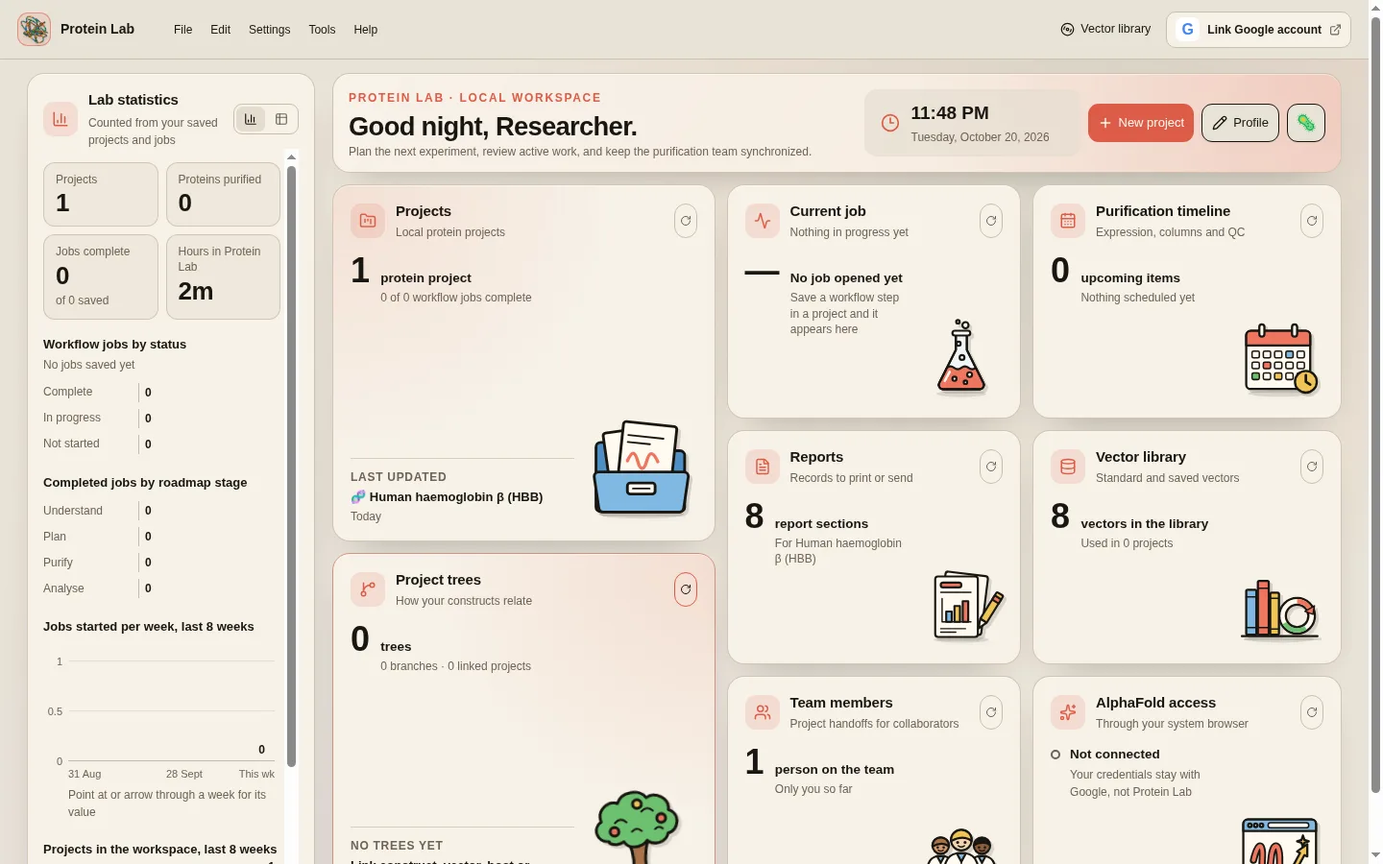
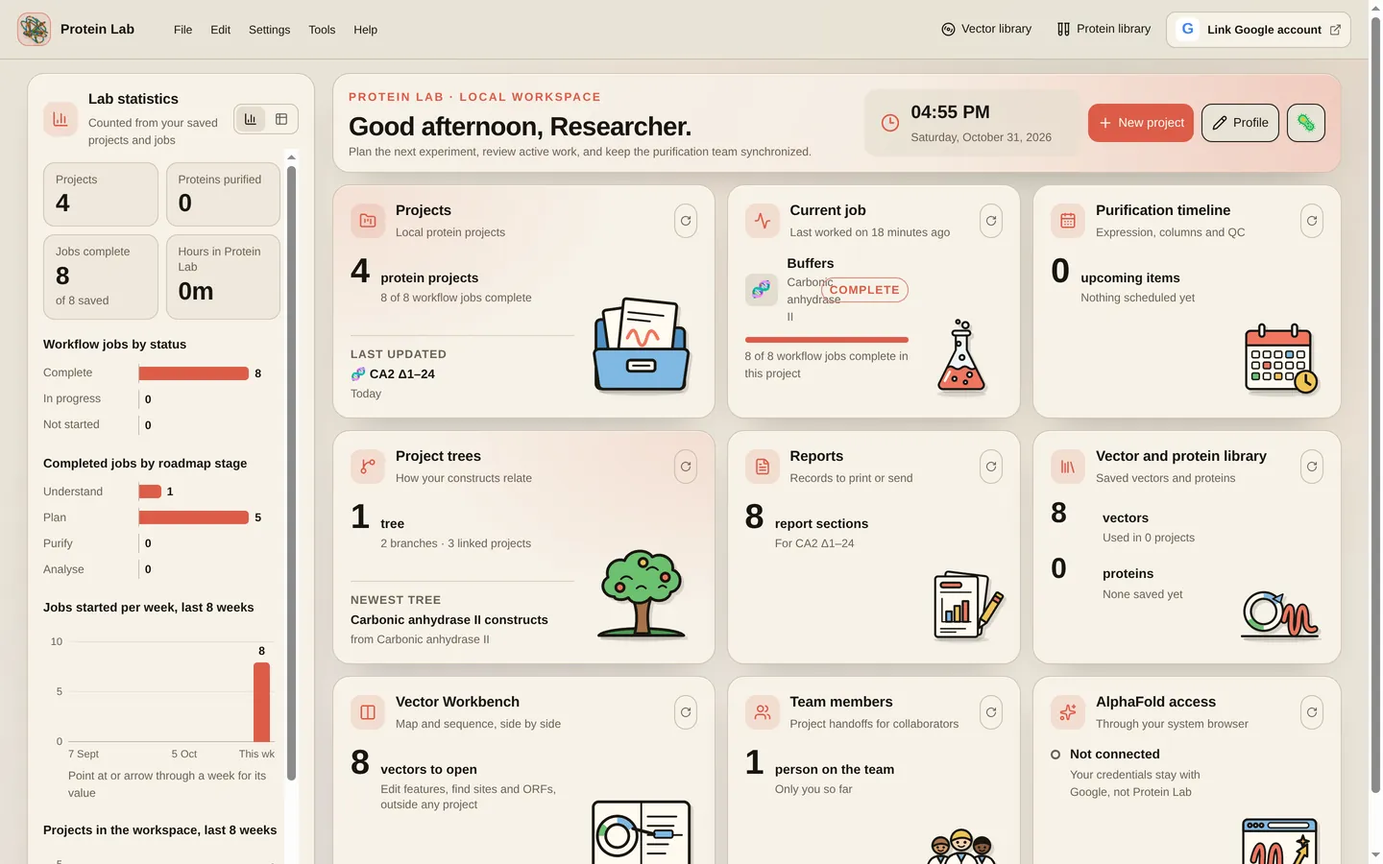
docs(manual): cover the HOM-269 release and retake every screenshot
- New: What's new; Move between jobs (Previous/Next job tabs, Skip);
  organism search; most abundant residue; Conservation with ConSurf;
  Export an AlphaFold Server job; the larger Structure Viewer with
  surface opacity, chain interface and colour by conservation; Vector
  Workbench; lysis method animations; the Compile workflow timeline.
- Removed every reference to the recommended-next card and banner, and
  corrected the workflow sections (bench jobs open from the roadmap).
- All 24 figures retaken from this branch (merged main plus the two
  sweep fixes) against a scratch
  engine, in Graphic novel and Monochrome dark (48 WebP, 2.8 MB).

diff --git a/protein-labs-web/docs/user-manual.md b/protein-labs-web/docs/user-manual.md
@@ -10,12 +10,31 @@ Authoring notes (not shown in the app):
 - A figure is an image on its own line, optionally followed by an italic caption line:
   ![Alt text](manual/name.webp)
   *Caption.*
-- Images live in desktop/public/manual/. lib/manual.test.ts fails if a figure is missing.
+- Images live in desktop/public/manual/. Every figure has a light screenshot (name.webp,
+  Graphic novel appearance) and a dark one (name-dark.webp, Monochrome dark); the app
+  shows the one that matches the appearance. Take both from the same build and window
+  size (1440 × 900 for full-window figures). lib/manual.test.ts fails if either is missing.
+- "[text](#anchor)" links jump inside the manual. The anchor is the slug of a "##" or "###"
+  title; lib/manual.test.ts fails if it does not exist.
 - Section anchors are slugs of the "##" title. Help > Keyboard & mouse controls opens
   the "Keyboard and mouse" section, so keep that title.
 -->
 
 Protein Lab is an offline workspace for planning protein expression, recording purification work, analysing chromatograms and gels, and preparing a purification report. The local scientific engine runs on your computer; projects remain in the project directory you choose.
+
+## What's new
+
+This release adds the following. Each item links to its place in the manual.
+
+- **Previous job and Next job tabs** at the bottom of every job replace the recommended-next card and banner. See [Move between jobs](#move-between-jobs).
+- **Organism search** in Protein sequence looks up UniProt and NCBI Taxonomy as you type. See [Protein sequence](#protein-sequence).
+- **Most abundant residue** is highlighted in the amino-acid composition table. See [Protein properties](#protein-properties).
+- **ConSurf conservation** in Sequence research grades every residue from 1 (variable) to 9 (conserved). See [Conservation with ConSurf](#conservation-with-consurf).
+- **AlphaFold Server JSON export** in Choose reference match, with a preview and checks before you upload. See [Export an AlphaFold Server job](#export-an-alphafold-server-job).
+- **A larger Structure Viewer** with a collapsible side panel, **surface opacity**, **chain interface highlighting** and **colour by conservation**. See [Structure Viewer](#structure-viewer).
+- **Vector Workbench** on the dashboard: a linked plasmid map and sequence for any vector, outside a project. See [Vector Workbench](#vector-workbench).
+- **Lysis method animations** show how each method breaks cells. See [Cell lysis](#cell-lysis).
+- **Compile workflow** is now a timeline of bench steps with a compatibility check on each hand-off. See [Compile workflow](#compile-workflow).
 
 ## Getting started
 
@@ -29,7 +48,7 @@ Protein Lab is an offline workspace for planning protein expression, recording p
 ![The Protein Lab start screen with the Start button and the engine status underneath](manual/start-screen.webp)
 *The start screen. "Scientific engine ready" means the local engine is running.*
 
-The dashboard is the way back to your local workspace. Use its cards to open a saved project, your project trees, the vector and protein library, or reports. Select the Protein Lab mark at the upper left from another workspace to return here.
+The dashboard is the way back to your local workspace. Use its cards to open a saved project, your project trees, the vector and protein library, the Vector Workbench, or reports. Select the Protein Lab mark at the upper left from another workspace to return here.
 
 ![The dashboard with lab statistics, projects, project trees and reports cards](manual/dashboard.webp)
 *The dashboard after clicking Start.*
@@ -97,36 +116,48 @@ Each project opens on its dashboard. Use **Resume workflow** to move from the pr
 
 ![The project dashboard with Resume workflow, Purification roadmap and Report](manual/project-dashboard.webp)
 
-![The project workflow listing the planning and purification design jobs](manual/workflow.webp)
-*Workflow cards show their status and the next recommended job.*
+![The project workflow with its four sections of numbered job cards](manual/workflow.webp)
+*Job cards are numbered in the recommended order and show their status.*
 
 To plan a project:
 
 1. Click **Resume workflow** on the project dashboard, or choose **Tools** → **Project workflow**.
-2. Read the **RECOMMENDED NEXT** banner, then select **Start** or **Continue**. You can also select any job card when your experiment needs a different path.
-3. Save the choices in each planning job before moving on; the roadmap uses saved planning choices to populate its steps.
-4. When the banner says **WORKFLOW READY**, select **Open roadmap**. For a non-planning optional job, use **Skip** only when it is not needed for this project.
+2. Select the first job card that is not done. Complete the jobs in order, or open any card when your experiment needs a different path.
+3. Save the choices in each planning job before you move on. The roadmap uses the saved planning choices to fill in its steps.
+4. Inside a job, use the **Next job** tab at the bottom of the window to continue. See [Move between jobs](#move-between-jobs).
+5. When planning is done, the **Purify your protein** card shows **READY**. Click **Open purification roadmap**.
 
 > **Tip:** A workflow card can be opened again to check or revise its saved choices before you start the corresponding bench step.
 
-The workflow has four sections. The table lists the jobs in their recommended order.
+The workflow page has two sections of numbered jobs, followed by the **Purify your protein** card. The table lists the jobs in their recommended order. **Previous job** and **Next job** follow the same order.
 
 | Section | Jobs |
 | --- | --- |
 | **Understanding your protein** | Protein sequence, Protein properties, Sequence research, Choose reference match, Structure Viewer, Protein readiness check |
 | **Plan your purification** | Affinity capture, Subtractive cleanup, SEC polishing, Choose expression system, Expression vector design, Cell lysis, Compile workflow |
-| **Purify your protein** | Transformation and Expression |
-| **Analyze your purification** | Chromatogram Studio, Gel densitometry |
+| **Purify your protein** (from the roadmap) | Transformation and Expression, Chromatogram Studio, Gel densitometry |
+
+The bench jobs in **Purify your protein** open from the steps of the [purification roadmap](#purification-roadmap), or with **Next job** after **Compile workflow**.
 
 You plan the purification from the protein outwards. First choose the capture, cleanup and polishing steps. Then choose the host, the vector and the lysis that feed them.
 
 ### Work in a job
 
-Each job has the same header. The header shows the engine status (**Local engine connected**, **Local engine unavailable** or **Checking engine**) and the **Roadmap** and **Report** buttons. Use the tab on the left to go back to project planning or to the roadmap.
+Each job has the same header. The header shows the engine status (**Local engine connected**, **Local engine unavailable** or **Checking engine**) and the **Roadmap** and **Report** buttons. Use the tab at the upper left (**Project planning** or **Purification roadmap**) to go back to where you came from.
 
-After you save a job, a **Saved** tab appears. It shows the **RECOMMENDED NEXT PLANNING JOB**. If you opened the job from the roadmap, it shows **CONTINUE THE PURIFICATION**. Select the tab to continue.
+### Move between jobs
 
-To skip a job, select **Skip** on the **RECOMMENDED NEXT** banner. The job is marked as skipped and counts as done. **Compile workflow** records that you continued without it.
+The bottom of every job has two tabs: **Previous job** at the lower left and **Next job** at the lower right. They follow the order in the table above.
+
+![The bottom of a job with the Skip button, the Next job tab and its tooltip naming the next job](manual/job-nav-tabs.webp)
+*Hold the pointer on a tab, or focus it, to see the name of the job it opens.*
+
+- Click **Next job** or **Previous job** to open the neighbouring job. The first job has no **Previous job** tab and the last job has no **Next job** tab.
+- Hold the pointer on a tab, or move the keyboard focus to it, to see which job it opens.
+- After you save, **Saved** shows next to the tabs for a few seconds.
+- To leave out a job that this project does not need, click **Skip**. Protein Lab saves the job as skipped, counts it as done, and opens the next job. **Compile workflow** records that you continued without it.
+
+> **Note:** **Skip** is only offered for unfinished jobs in **Understanding your protein** and **Plan your purification**. **Protein sequence** cannot be skipped.
 
 ## Protein sequence and properties
 
@@ -136,6 +167,18 @@ To skip a job, select **Skip** on the **RECOMMENDED NEXT** banner. The job is ma
 2. Edit the **Construct name** and the **Amino acid sequence**. Spaces and line breaks are ignored.
 3. Optionally, fill in **Organism**, **Gene**, **Description** and **Notes** under **Construct metadata**. Later jobs use these values.
 4. Click **Save sequence**. Protein Lab saves the sequence and calculates the protein properties again.
+
+To choose the organism:
+
+1. Click **Organism** and type a name, a strain or a taxon ID. After a short pause, Protein Lab searches UniProt and NCBI Taxonomy.
+2. Read the suggestions. Each one shows the scientific name, its rank or common name, and its taxon ID.
+3. Click a suggestion, or press <kbd>↓</kbd> and <kbd>↑</kbd> to move through the list and <kbd>Enter</kbd> to choose. Press <kbd>Esc</kbd> to close the list.
+4. Check the line under the field. **Linked to NCBI taxon** and a number means that the organism is linked to a taxon. **Free text · not linked to a taxon** means that the typed name is kept as text only.
+
+![The Organism field with Escherichia coli typed and a list of matching taxa with their taxon IDs](manual/organism-search.webp)
+*Suggestions come from UniProt and NCBI Taxonomy.*
+
+> **Note:** Without an internet connection, the list shows **Offline list** and offers common expression and model organisms only. You can always keep a name as free text.
 
 ### Protein properties
 
@@ -153,8 +196,13 @@ The job has these panels:
 - **Secondary-structure propensity**: the share of residues in the helix, turn and sheet sets. This is not a structure prediction.
 - **Sequence and charge summary**: the N-terminal and C-terminal residues with their positions, the net charge at pH 7, and the counts of acidic and basic residues.
 - **Oligomeric state**: the assembly that the protein forms in solution. See below.
-- **Amino-acid composition**: the count and percentage of each residue. The bars are coloured by side-chain class.
+- **Amino-acid composition**: the count and percentage of each residue. The bars are coloured by side-chain class. The most abundant residue is highlighted.
 - **Calculation assumptions**: the assumptions that the engine used.
+
+In the **Amino-acid composition** table, the row of the most abundant residue is tinted and marked **Most abundant**. If two or more residues share the highest count, each of them is marked.
+
+![The amino-acid composition table with the leucine row highlighted as the most abundant residue](manual/most-abundant.webp)
+*Leucine is the most abundant residue in this construct.*
 
 ### Residue details
 
@@ -214,6 +262,31 @@ To examine the alignments:
 - **UniProt matches and PTMs** lists each UniProt match with its review status, identity, coverage, and the number of PTM, transmembrane, disorder and cofactor features. The first match is marked **Best match**.
 - **PDB structures and conditions** lists each PDB entry with its method, resolution, identity, similarity and coverage. It also shows the crystallization and purification conditions when the deposition reports them.
 
+### Conservation with ConSurf
+
+ConSurf grades every residue from **1** (highly variable) to **9** (highly conserved) by comparing your protein with its homologues. Conserved residues are often in the active site, a binding site or the folded core. Avoid them when you choose tag positions, truncations and mutations.
+
+To get the grades:
+
+1. In the **ConSurf conservation** card, click **Find ConSurf grades**. Protein Lab looks for a pre-calculated ConSurf-DB analysis of a PDB chain that matches your sequence, and saves it.
+2. If ConSurf-DB has no entry, click **Prepare ConSurf server job**. ConSurf has no submission API, so the run happens on their web server. Protein Lab writes the input files and lists the steps. Click **Open the ConSurf server** and follow the steps.
+3. When the ConSurf run finishes, download its grades file and, optionally, its alignment. Type the path of each file in **ConSurf grades file** and **Alignment file (optional)**, then click **Import grades**.
+
+![The Evolutionary conservation panel with the grade summary, the grade distribution, the residue strip and the colour legend](manual/consurf.webp)
+*Deep magenta residues are highly conserved and turquoise residues are variable.*
+
+To read the **Evolutionary conservation** panel:
+
+- The summary shows **Residues graded**, **Mean grade**, **Grade 9 sites**, **Insufficient data**, the **PDB chain** and the number of sequences in the **Alignment**.
+- The bar shows how many residues have each grade. Under it, Protein Lab lists the conserved stretches (grade 8 and higher).
+- The strip shows each residue coloured by its grade. Hatched residues have **insufficient data**: too few homologues cover that position for a reliable grade.
+- Click a residue in the strip to see its **Score**, **Confidence interval**, **Alignment support**, **Burial**, the **ConSurf call** and the residues seen at that position. Press <kbd>←</kbd> or <kbd>→</kbd> to move one residue, <kbd>↑</kbd> or <kbd>↓</kbd> to move one row, and <kbd>Esc</kbd> to clear the selection.
+- Click **Alignment** to show the homologue alignment, **Open in ConSurf-DB** to read the entry on the ConSurf website, or **Delete run** to remove the run. If there is more than one run, choose it in **Run**.
+
+To replace the grades of a run, open **Import another grades file for this run** and import the new file.
+
+> **Tip:** The [Structure Viewer](#colour-by-conservation) can paint the same grades on the 3D model.
+
 ## Choosing a reference match
 
 The **Choose reference match** job selects one UniProt record. This record is the source of the cofactor, PTM, location, topology and disorder evidence for the project.
@@ -225,9 +298,36 @@ The **Choose reference match** job selects one UniProt record. This record is th
 
 > **Warning:** A close homolog is supporting evidence. It does not prove that each annotation applies to your construct. Confirm active-site residues, modified positions and construct boundaries before you use the annotations.
 
+### Export an AlphaFold Server job
+
+[AlphaFold Server](https://alphafoldserver.com) predicts the structure of a protein together with its partners, ligands and ions. Protein Lab can write the job file for you from the project's sequence, oligomeric state, cofactors and reference modifications.
+
+1. Open **Choose reference match** and click **Export AlphaFold Server JSON**.
+2. Read the token meter. AlphaFold Server accepts up to 5,000 tokens per job: one per residue or base, and one per atom of a ligand, ion or modified residue.
+3. Check **Chains**. A homo-oligomer is exported as copies of the chain. Modified residues and glycans from the reference match are listed on the chain.
+4. Check **Ligands and ions**. Click the bin button to leave a cofactor out of this job. It moves to **Removed from this job**; click its name there to add it back.
+5. Under **Partner chains**, click **Add a partner chain** to model another protein with yours. Enter its **Name**, **Sequence** and **Copies**.
+6. Read **What changed on the way out**. Each note is marked **Left out**, **Changed** or **Blocks upload**.
+7. Click **Download JSON** to save the file, or **Copy JSON** to copy it. Open **Raw JSON** to read the file first.
+8. On AlphaFold Server, use **Load JSON** to load the file, then submit the job.
+
+![The Export an AlphaFold Server job dialog with the token meter, chains, ligands, partner chains and the change notes](manual/af-server-export.webp)
+*The export of a single carbonic anhydrase II chain.*
+
+> **Note:** Removing a ligand or adding a partner chain changes only this export. Nothing is written back to the project.
+
+> **Warning:** If the meter shows **Over the per-job limit**, AlphaFold Server will refuse the job. Remove ligands, copies or partner chains until it fits.
+
+When the prediction is ready, import its result in the Structure Viewer. See [Get an AlphaFold model](#get-an-alphafold-model).
+
 ## Structure Viewer
 
-The **Structure Viewer** shows the AlphaFold model or an experimental PDB entry in 3D and highlights regions of interest.
+The **Structure Viewer** shows the AlphaFold model or an experimental PDB entry in 3D and highlights regions of interest, chain interfaces and conserved residues.
+
+The 3D view fills the window. The tools are in the side panel on the right. The icons on the narrow rail beside it open **Structure**, **Display**, **Regions of interest** and **AlphaFold model**. Click the top rail button to hide or show the side panel and give the 3D view more room. Protein Lab remembers your choice. In windows narrower than 1280 pixels, the panel starts closed and opens over the view; press <kbd>Esc</kbd> to close it.
+
+![The Structure Viewer with haemoglobin 4HHB as a semi-transparent surface, the chain interface highlighted, and the side panel open](manual/structure-viewer.webp)
+*Haemoglobin (4HHB) as a 45% surface with its chain interfaces highlighted.*
 
 ### Choose a structure
 
@@ -243,7 +343,8 @@ If no PDB entries are listed, click **Open Sequence research** and run **Find PD
 ### Use the 3D view
 
 - Drag to rotate. Scroll to zoom. Click a residue to identify it.
-- Choose **Cartoon**, **Surface** or **Ball & stick**.
+- In the **Display** panel, choose **Cartoon**, **Surface** or **Ball & stick**.
+- With **Surface**, drag **Surface opacity** to see the cartoon through the surface. 100% is fully opaque. Protein Lab remembers the value.
 - Under **Colour scheme**, choose **Colour by chain**, **Secondary structure**, **pLDDT confidence** or **Hydrophobicity**. **pLDDT confidence** is available for AlphaFold models only. A legend explains the colours.
 - With **Colour by chain**, choose a **Chain palette**.
 - Turn **Ligands**, **Waters** and **Spin** on or off.
@@ -258,9 +359,32 @@ If no PDB entries are listed, click **Open Sequence research** and run **Find PD
 
 Protein Lab highlights only the residues that the engine maps onto the structure. The panel tells you when positions are outside the model or in an alignment gap.
 
+### Highlight a chain interface
+
+The **Chain interface** panel appears when the structure has two or more protein chains. It finds the residues of each chain that touch another chain.
+
+1. Click **Highlight interface**. Residues with any heavy atom within the **Contact distance** of another chain are coloured; the rest are grey.
+2. Drag **Contact distance** between 3 and 6 Å. The default is 4.5 Å.
+3. Open a chain pair, for example **Chains A – B**, to see its residues and the closest distance. Click **Focus this interface** to zoom to it, or click a residue to go to it.
+4. Click **Hide interface** to return to the colour scheme.
+
+### Colour by conservation
+
+The **Conservation** panel colours each residue by how conserved it is across homologues, on ConSurf's 1–9 scale.
+
+1. Under **Conservation**, choose a source. **ConSurf** uses the newest ConSurf grades from [Sequence research](#conservation-with-consurf). **Alignment** scores each column of the newest protein BLAST alignment.
+2. Read the summary: the number of residues graded, with insufficient data, and not mapped. Each chain shows how many positions align to your sequence. A chain of another protein is left grey.
+3. Read the legend under the view: from **Variable** to **Conserved**, plus **Insufficient data** and **Not mapped**. The sequence strip uses the same colours.
+4. Choose **Off** to return to the colour scheme.
+
+![The Structure Viewer with the carbonic anhydrase II model coloured by ConSurf grades and the Conservation panel open](manual/structure-conservation.webp)
+*The AlphaFold model of carbonic anhydrase II coloured by its ConSurf grades.*
+
+> **Note:** Conservation colouring and interface highlighting replace each other. Turning one on turns the other off. A button is grey until its data exists; the panel tells you which job to run first.
+
 ### Get an AlphaFold model
 
-In the **AlphaFold model** panel, enter a **UniProt accession**, or leave it blank to use the inferred accession. Click **Retrieve AlphaFold DB model**. If there is no model in AlphaFold DB, click **Prepare AlphaFold Server job**. When the server returns the result, click **Import returned result**.
+In the **AlphaFold model** panel, enter a **UniProt accession**, or leave it blank to use the inferred accession. Click **Retrieve AlphaFold DB model**. If there is no model in AlphaFold DB, click **Prepare AlphaFold Server job**, or build a complete job with partners and ligands in [Choose reference match](#export-an-alphafold-server-job). When the server returns the result, click **Import returned result**.
 
 ## Protein readiness check
 
@@ -337,27 +461,42 @@ Click **Load backbone** to load a vector from the library, or **Import GenBank /
 ### Cell lysis
 
 1. Open **Cell lysis**. Each method card shows if it suits the saved host.
-2. Select a lysis method and click **Use this choice**.
-3. In **Lysis buffer**, read the **SUGGESTED FROM YOUR CHOICES** card. The suggestion starts from the binding buffer of your capture column. Each line tells you why a component is added or left out, for example imidazole for IMAC, a detergent for a membrane protein, or lysozyme for *E. coli*.
-4. Click **Apply suggestion** to put the suggestion into the composer. Or, under **Or start from a preset**, select a preset and click **Load into the lysis buffer**.
-5. Edit the buffer in the composer. If you click **Re-apply suggestion** after you edit, Protein Lab replaces your edits.
-6. Read the **Compatibility check**, then click **Save job**.
+2. Click a method card. Its window opens with a short animation of how the method breaks cells, followed by its **Mechanism**, **Best for**, **Advantages**, **Limitations**, **Compatible systems** and **Reference**.
+3. Click **Use this choice** to select the method, or **Close** to compare another.
+4. In **Lysis buffer**, read the **SUGGESTED FROM YOUR CHOICES** card. The suggestion starts from the binding buffer of your capture column. Each line tells you why a component is added or left out, for example imidazole for IMAC, a detergent for a membrane protein, or lysozyme for *E. coli*.
+5. Click **Apply suggestion** to put the suggestion into the composer. Or, under **Or start from a preset**, select a preset and click **Load into the lysis buffer**.
+6. Edit the buffer in the composer. If you click **Re-apply suggestion** after you edit, Protein Lab replaces your edits.
+7. Read the **Compatibility check**, then click **Save job**.
+
+![The Cell lysis job with the Probe sonication window open, showing the animation of cavitation breaking cells](manual/lysis-animation.webp)
+*Each method window starts with an animation of how the method opens cells.*
+
+> **Note:** If your computer is set to reduce motion, the window shows a still picture of intact and broken cells instead of the animation.
 
 > **Note:** A cell-free host has no cells to lyse, so Protein Lab does not suggest a lysis enzyme. Clarify the reaction mix by centrifugation before you load it.
 
 ### Compile workflow
 
+**Compile workflow** turns your saved planning choices into a timeline of bench steps, from expression and harvest to QC and storage. It checks each hand-off from one step to the next.
+
+![The Compile workflow timeline with the blocking, warning and passed counts, the overview rail of eight steps and the first step cards](manual/compile-workflow.webp)
+*A plan with no blocking issues and one warning, on the hand-off from lysis to affinity capture.*
+
 1. Open **Compile workflow**.
-2. Read the **Compatibility review**. It counts the **Blocking**, **Warning** and **Pass** findings for the complete design.
-3. Read the **Generated bench workflow**. It lists the steps from material preparation to quality control and storage.
-4. Click **Copy report** to copy the workflow to the clipboard.
-5. Click **Save workflow**. If there are blocking findings, the button is **Save draft**. Solve the blocking findings, then save again.
+2. Read the counts at the top: **Blocking**, **Warnings** and **Passed**. The chip shows **Ready for review** when nothing blocks, or **Draft** when something does.
+3. Read the overview rail. It shows each step with the verdict of the hand-off between steps: a tick, a warning sign or a blocking sign. Click a step to scroll to it.
+4. Read each step card: its **Step** number and type, the instruction, and what to **Record** at the bench. Between two cards, the hand-off shows each finding as **Blocking**, **Warning** or **Pass**, and **How to fix** when a change is needed.
+5. Read **Across the workflow** for the checks that apply to every step, and **Evidence basis** for the source of the starting conditions.
+6. Click **Copy report** to copy the workflow to the clipboard.
+7. Click **Save workflow**. If there are blocking findings, the button is **Save draft**. Solve the blocking findings, then save again.
+
+> **Tip:** If nothing is saved yet, the timeline shows **Nothing saved to compile yet** and generic placeholder steps. Save **Affinity capture**, **Subtractive cleanup**, **SEC polishing** and **Cell lysis** first.
 
 ## Transformation and Expression
 
 This job records the bench work that makes the protein.
 
-1. Open **Transformation and Expression** in the **Purify your protein** section.
+1. Open **Transformation and Expression** from the first step of the purification roadmap, or click **Next job** in **Compile workflow**.
 2. Under **1 · Starting material**, choose **Fresh transformation**, **Glycerol / cryo stock** or **Existing culture**.
 3. Under **2 · Host system and medium**, choose the host tab and a medium, then click **Use this medium**.
 4. Under **3 · Expression record**, enter the **Culture volume**, the **Temperature (°C)**, the **Induction / harvest plan**, the media composition and your notes.
@@ -385,12 +524,12 @@ To keep a bench record:
 
 Chromatogram Studio imports and processes chromatography traces locally. It can overlay traces, find or define peaks, mark fraction regions, make an SEC standard curve, and export data and figures.
 
-![The chromatogram studio showing a size-exclusion trace with three labelled peaks](manual/chromatogram.webp)
-*A size-exclusion run with labelled peaks.*
+![Chromatogram Studio with an imported size-exclusion trace of carbonic anhydrase II and its processing controls](manual/chromatogram.webp)
+*An imported size-exclusion run: a small aggregate peak, the main peak and a late peak.*
 
 ### Import and inspect a trace
 
-1. From a roadmap step, select **Chromatogram Studio**, or open the chromatography job in the workflow.
+1. From a roadmap step, select **Chromatogram Studio**, or click **Next job** in **Transformation and Expression**.
 2. Select **Data**, then **Import CSV / TSV / DAT**. The importer accepts `.csv`, `.tsv`, `.txt`, and `.dat` files.
 3. Select a trace in the spectra list. Adjust its name, colour, X shift, Y scale, Y offset, smoothing, baseline correction, or normalization as needed. These processing controls remain reversible in the project.
 4. Click **Save project** to keep the trace and its settings with this project.
@@ -428,7 +567,7 @@ The gel studio measures lanes and bands from SDS-PAGE or Native PAGE images with
 
 ### Detect and review bands
 
-1. Open **Quantify a gel** from a roadmap step, or open the gel job in the workflow.
+1. Open **Quantify a gel** from a roadmap step, or click **Next job** in **Chromatogram Studio**.
 2. In **Setup**, select **Import PNG, JPEG, or TIFF**, then choose the gel image. For TIFF files, the engine supplies a PNG preview after analysis.
 3. Under **Gel type**, choose **SDS-PAGE** or **Native PAGE**. Set the band sensitivity and rolling-ball radius if needed; the origin and dye-front guides help orient the image but do not change a measurement.
 4. Click **Detect lanes & bands**. Review the detected lanes and bands on the image. Detection keeps lightly loaded lanes separate, also next to a strongly stained ladder. Add or edit a lane when needed, then use **Re-detect in lanes** to measure those lanes again.
@@ -520,6 +659,40 @@ Inside **Expression vector design**, **Load backbone** opens the same library as
 
 The **Proteins** tab lists every purified batch: how much is left, its status, and exactly where it is kept (for example a freezer, shelf and box). Search by name, gene, construct, buffer or location; press <kbd>/</kbd> to jump to the search box. Narrow the list by status, temperature, location, method or tag. Select a batch to see its storage, stock and history, and click **Add protein** to record a new one. The dashboard card names the busiest storage places and warns when batches are running low.
 
+## Vector Workbench
+
+The **Vector Workbench** opens any vector as a plasmid map and its sequence, side by side, outside a project. Use it to read a vector, annotate features, find restriction sites and ORFs, and save the result to the vector library.
+
+![The Vector Workbench with pET28a-LIC as a circular map and a linear map beside the annotated sequence, with the lacI feature selected in both](manual/vector-workbench.webp)
+*Selecting lacI on the map selects it in the sequence and opens it in the Features tab.*
+
+### Open a vector
+
+1. On the dashboard, find the **Vector Workbench** card. Click **Open** to start with an empty workbench, or click the card to turn it over and choose one of the vectors listed on its back. Your own vectors are listed first.
+2. In an empty workbench, choose **Vector library**, **From a project** or **Import a file**. You can also paste DNA and click **New construct from DNA**.
+3. Later, click **Open** (<kbd>Ctrl+O</kbd>) or **Import** in the toolbar to open another vector. Click **Dashboard** to go back. If there are unsaved changes, Protein Lab asks before it discards them.
+
+### Read the map and sequence
+
+- The map and the sequence are linked. Click a feature or a cut site on the map, or drag across the map or the sequence, and the same region is selected in both. The bar at the bottom shows the selected range, its length and GC content, and the melting temperature of a selection of 60 bp or less.
+- Choose **Split**, **Map** or **Sequence** to show both panes or only one. **Split** needs a wide window.
+- Under **Cut sites**, choose **Unique**, **Two-cutters**, **All** or **None**. The count beside each shows how many enzymes it includes.
+- Tick or clear **Circular** to change the topology. Click **Reverse complement** to flip the whole construct.
+- Click **ORFs** to draw open reading frames on the maps.
+- Press <kbd>Ctrl+F</kbd> to find a DNA sequence.
+
+### Edit and save
+
+1. In the **Features** tab, select a range and enter a **Name**, **Type** and **Strand**, then click **Add feature**. To change a feature, select it, edit **Start**, **End** or **Notes**, and click **Apply changes**. Click **Delete** to remove it.
+2. In the **Enzymes** tab, read the cut sites of the chosen filter.
+3. In the **ORFs** tab, set the **Shortest ORF (aa)** and click **Keep as CDS** to turn an ORF into a feature.
+4. Click **Save to library** (<kbd>Ctrl+S</kbd>). Save a standard vector as a new entry; save your own vector as a new entry or overwrite it.
+5. Click **Export** (<kbd>Ctrl+E</kbd>) to save **GenBank (.gb)**, **SnapGene (.dna)** or **FASTA (.fasta)**.
+
+Use <kbd>Ctrl+Z</kbd> to undo and <kbd>Ctrl+Shift+Z</kbd> or <kbd>Ctrl+Y</kbd> to redo.
+
+> **Note:** Restriction sites and ORFs come from the local engine. If it is unavailable, the workbench says so; click **Retry** when the engine is back. You can still read and edit the map and sequence.
+
 ## Project trees
 
 Project trees connect related saved projects, such as construct variants, and describe differences on each branch.
@@ -544,6 +717,8 @@ To change appearance:
 2. Choose **Graphic novel**, **Monochrome dark**, or **Monochrome light**.
 3. Keep the menu open while comparing options; the chosen appearance is remembered for the next launch.
 
+The pictures in this manual follow the appearance: **Monochrome dark** shows them in the dark appearance, and the light appearances show them in **Graphic novel**.
+
 ![The Settings menu listing the three appearances](manual/settings-menu.webp)
 
 ## Keyboard and mouse
@@ -561,10 +736,17 @@ To change appearance:
 | Project-tree graph: <kbd>+</kbd> / <kbd>=</kbd>, <kbd>-</kbd> / <kbd>_</kbd> | Zoom in or out |
 | Project-tree graph: <kbd>0</kbd> | Fit the graph to the view |
 | Residue window: <kbd>←</kbd> <kbd>→</kbd> | Show the previous or next residue |
+| Organism field: <kbd>↑</kbd> <kbd>↓</kbd>, <kbd>Enter</kbd>, <kbd>Esc</kbd> | Move through the suggestions, choose one, close the list |
+| ConSurf strip: <kbd>←</kbd> <kbd>→</kbd> / <kbd>↑</kbd> <kbd>↓</kbd> | Move one residue / one row |
+| Structure Viewer, narrow window: <kbd>Esc</kbd> | Close the side panel |
+| Vector Workbench: <kbd>Ctrl+O</kbd> | Open a vector |
+| Vector Workbench: <kbd>Ctrl+S</kbd>, <kbd>Ctrl+E</kbd> | Save to the library, export |
+| Vector Workbench: <kbd>Ctrl+Z</kbd>, <kbd>Ctrl+Shift+Z</kbd> | Undo, redo |
+| Vector Workbench: <kbd>Ctrl+F</kbd> | Find a DNA sequence |
 | Expression vector design: <kbd>Ctrl+S</kbd> | Save the vector |
 | Expression vector design: <kbd>?</kbd> | Show the shortcuts of the vector editor |
 
-On macOS, use <kbd>Cmd</kbd> in place of <kbd>Ctrl</kbd> for the library shortcuts.
+On macOS, use <kbd>Cmd</kbd> in place of <kbd>Ctrl</kbd> for the library and Vector Workbench shortcuts.
 
 ## Troubleshooting
 
